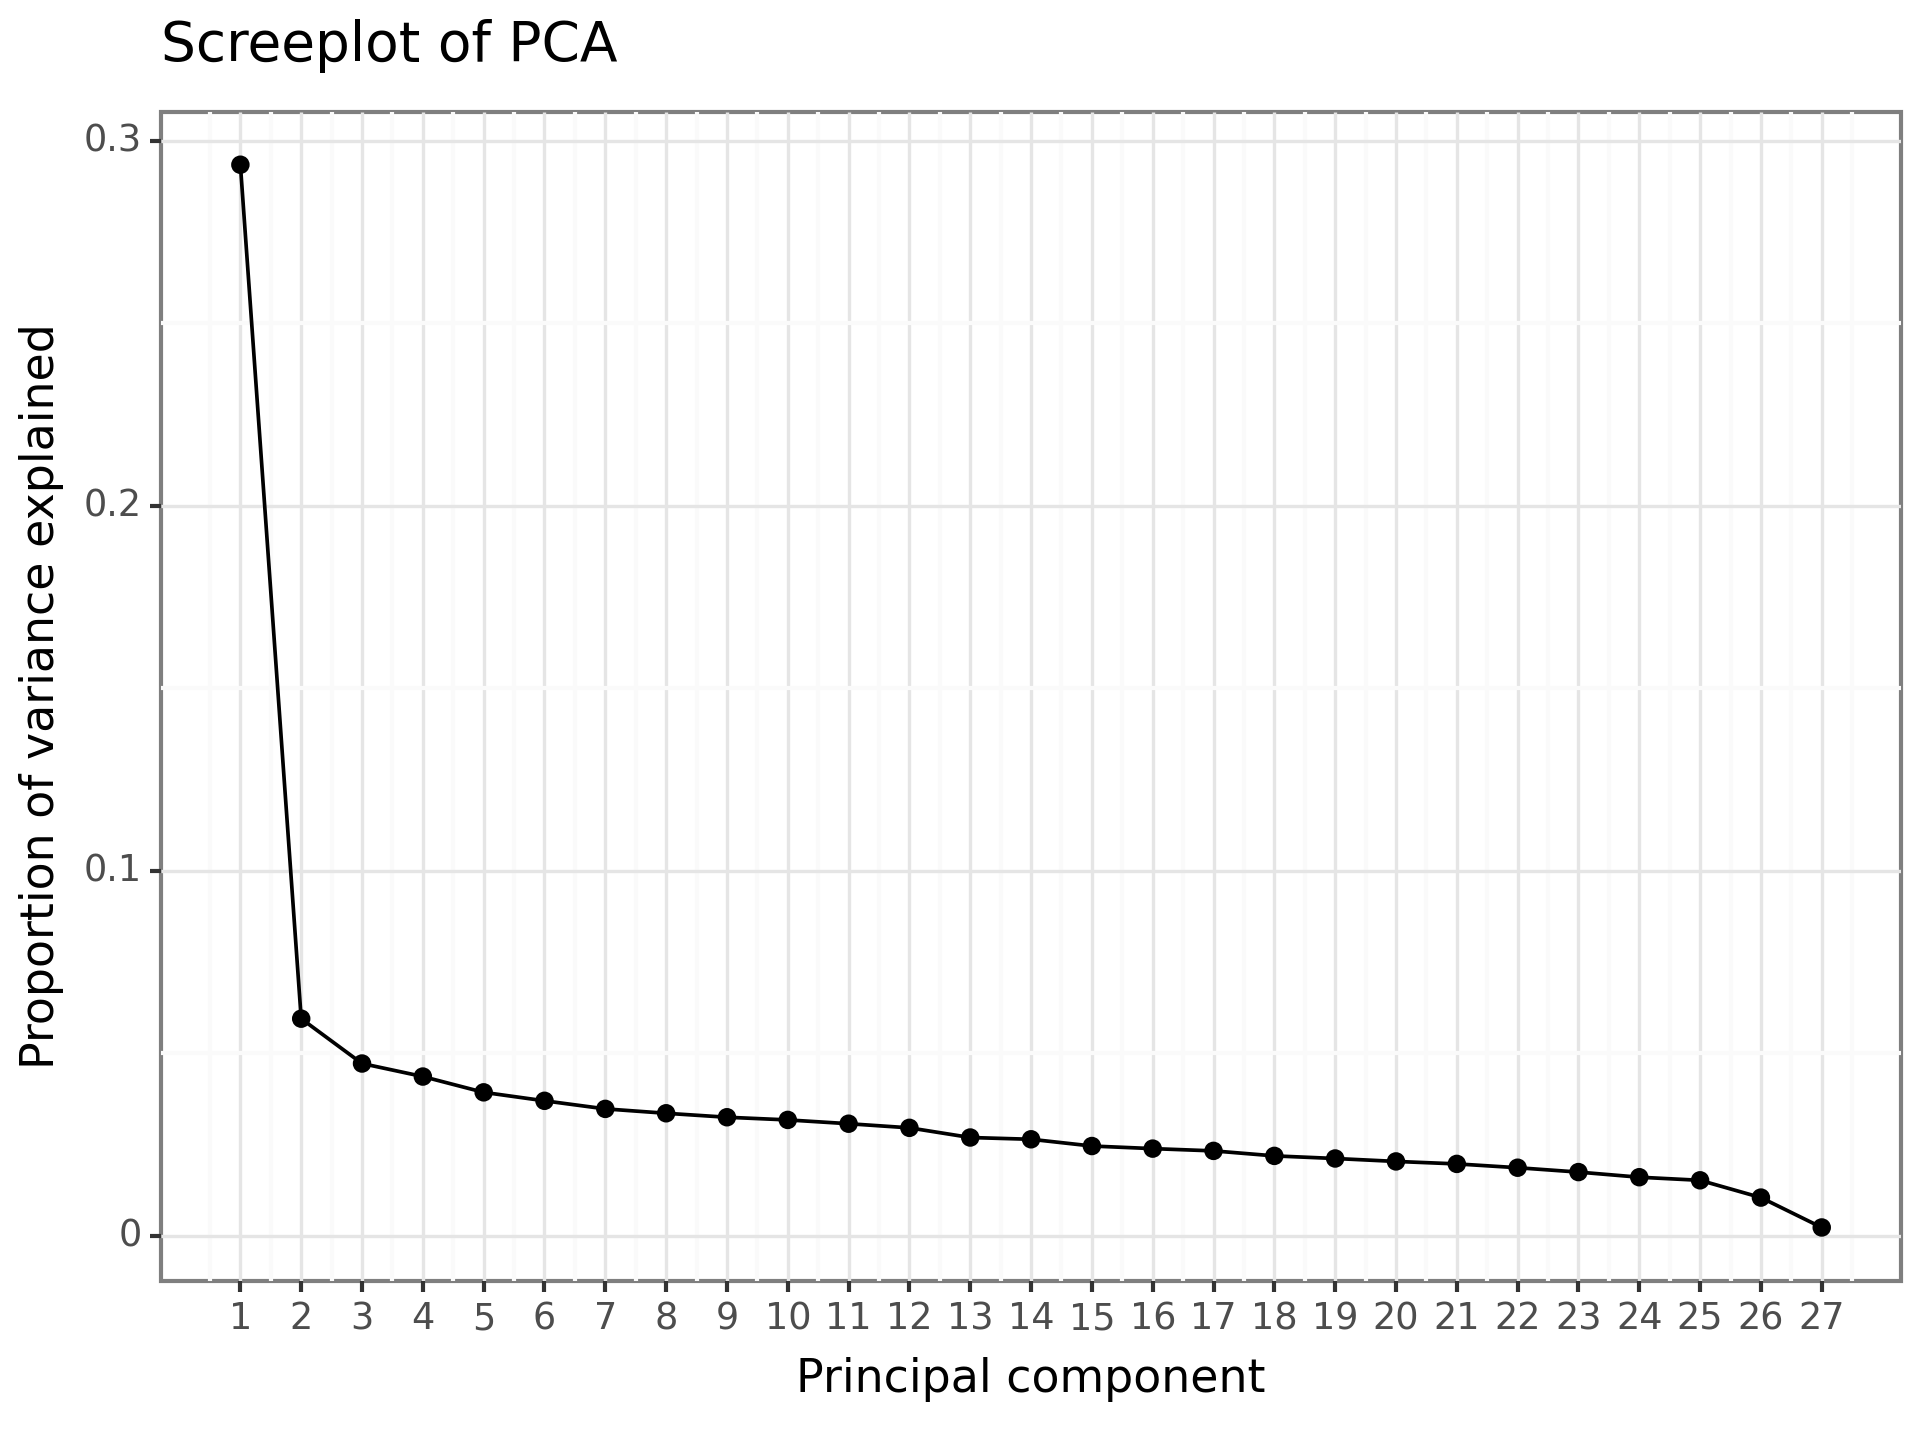
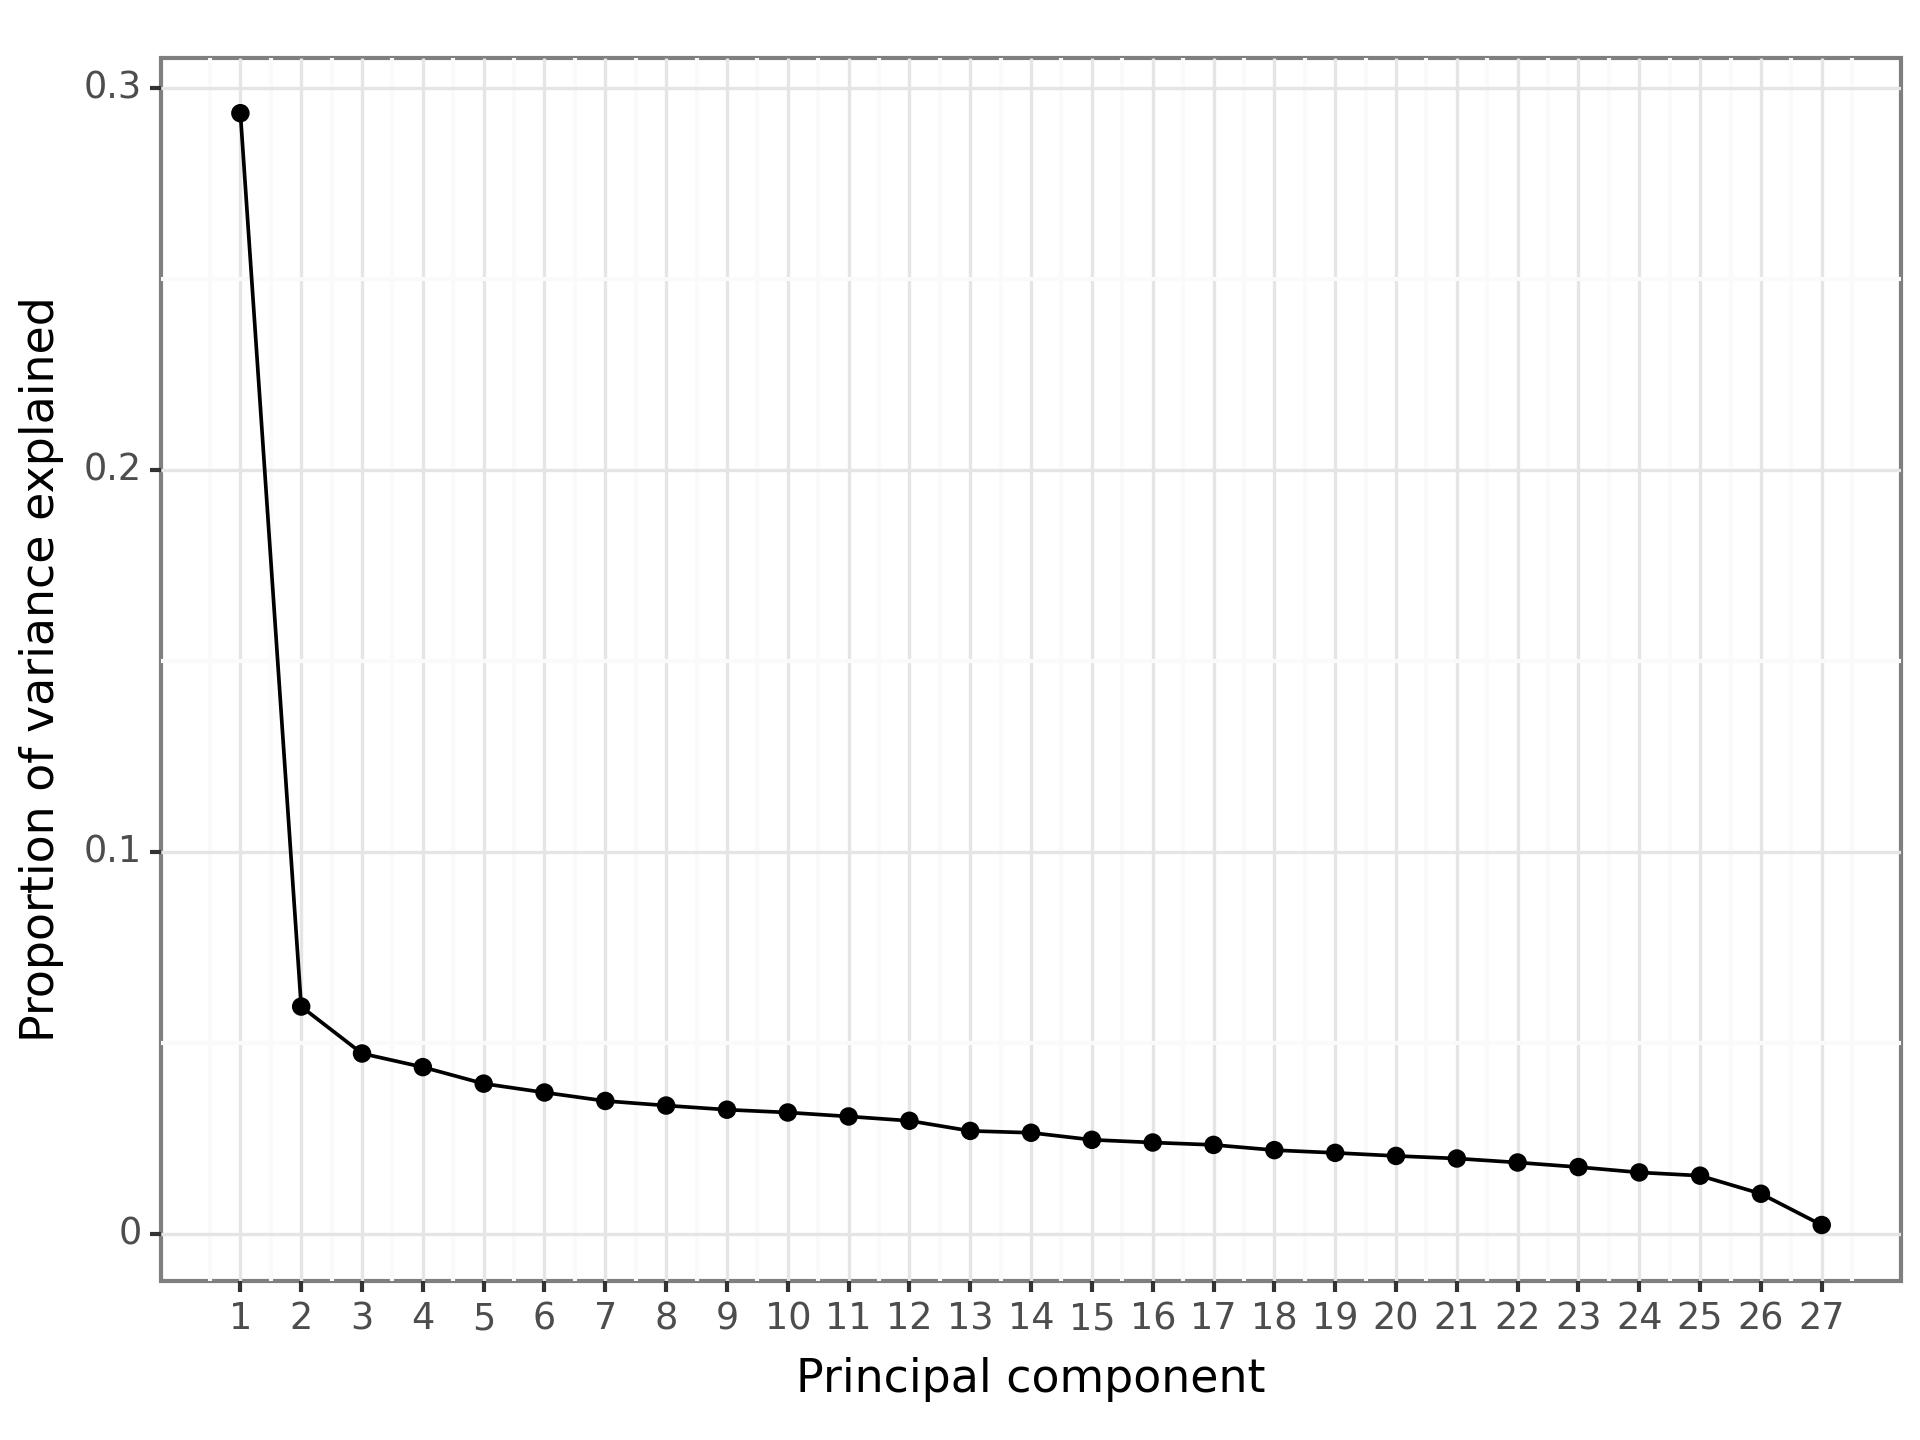
Improved the format of pca_screeplot.png

diff --git a/src/3_pca_digital_literacy.py b/src/3_pca_digital_literacy.py
@@ -56,9 +56,7 @@ pca_screeplot = (pn.ggplot(pca_pve, pn.aes(x='PC', y='PVE'))
                  + pn.geom_line()
                  + pn.theme_bw()
                  + pn.scale_x_continuous(breaks=range(1, digital_10_scaled.shape[1] + 1))
-                 + pn.labs(title='Screeplot of PCA',
-                           x='Principal component',
-                           y='Proportion of variance explained'))
+                 + pn.labs(x='Principal component', y='Proportion of variance explained'))
 
 pn.ggsave(pca_screeplot, filename='pca_screeplot.png', path=figure_path, dpi=300)
 
